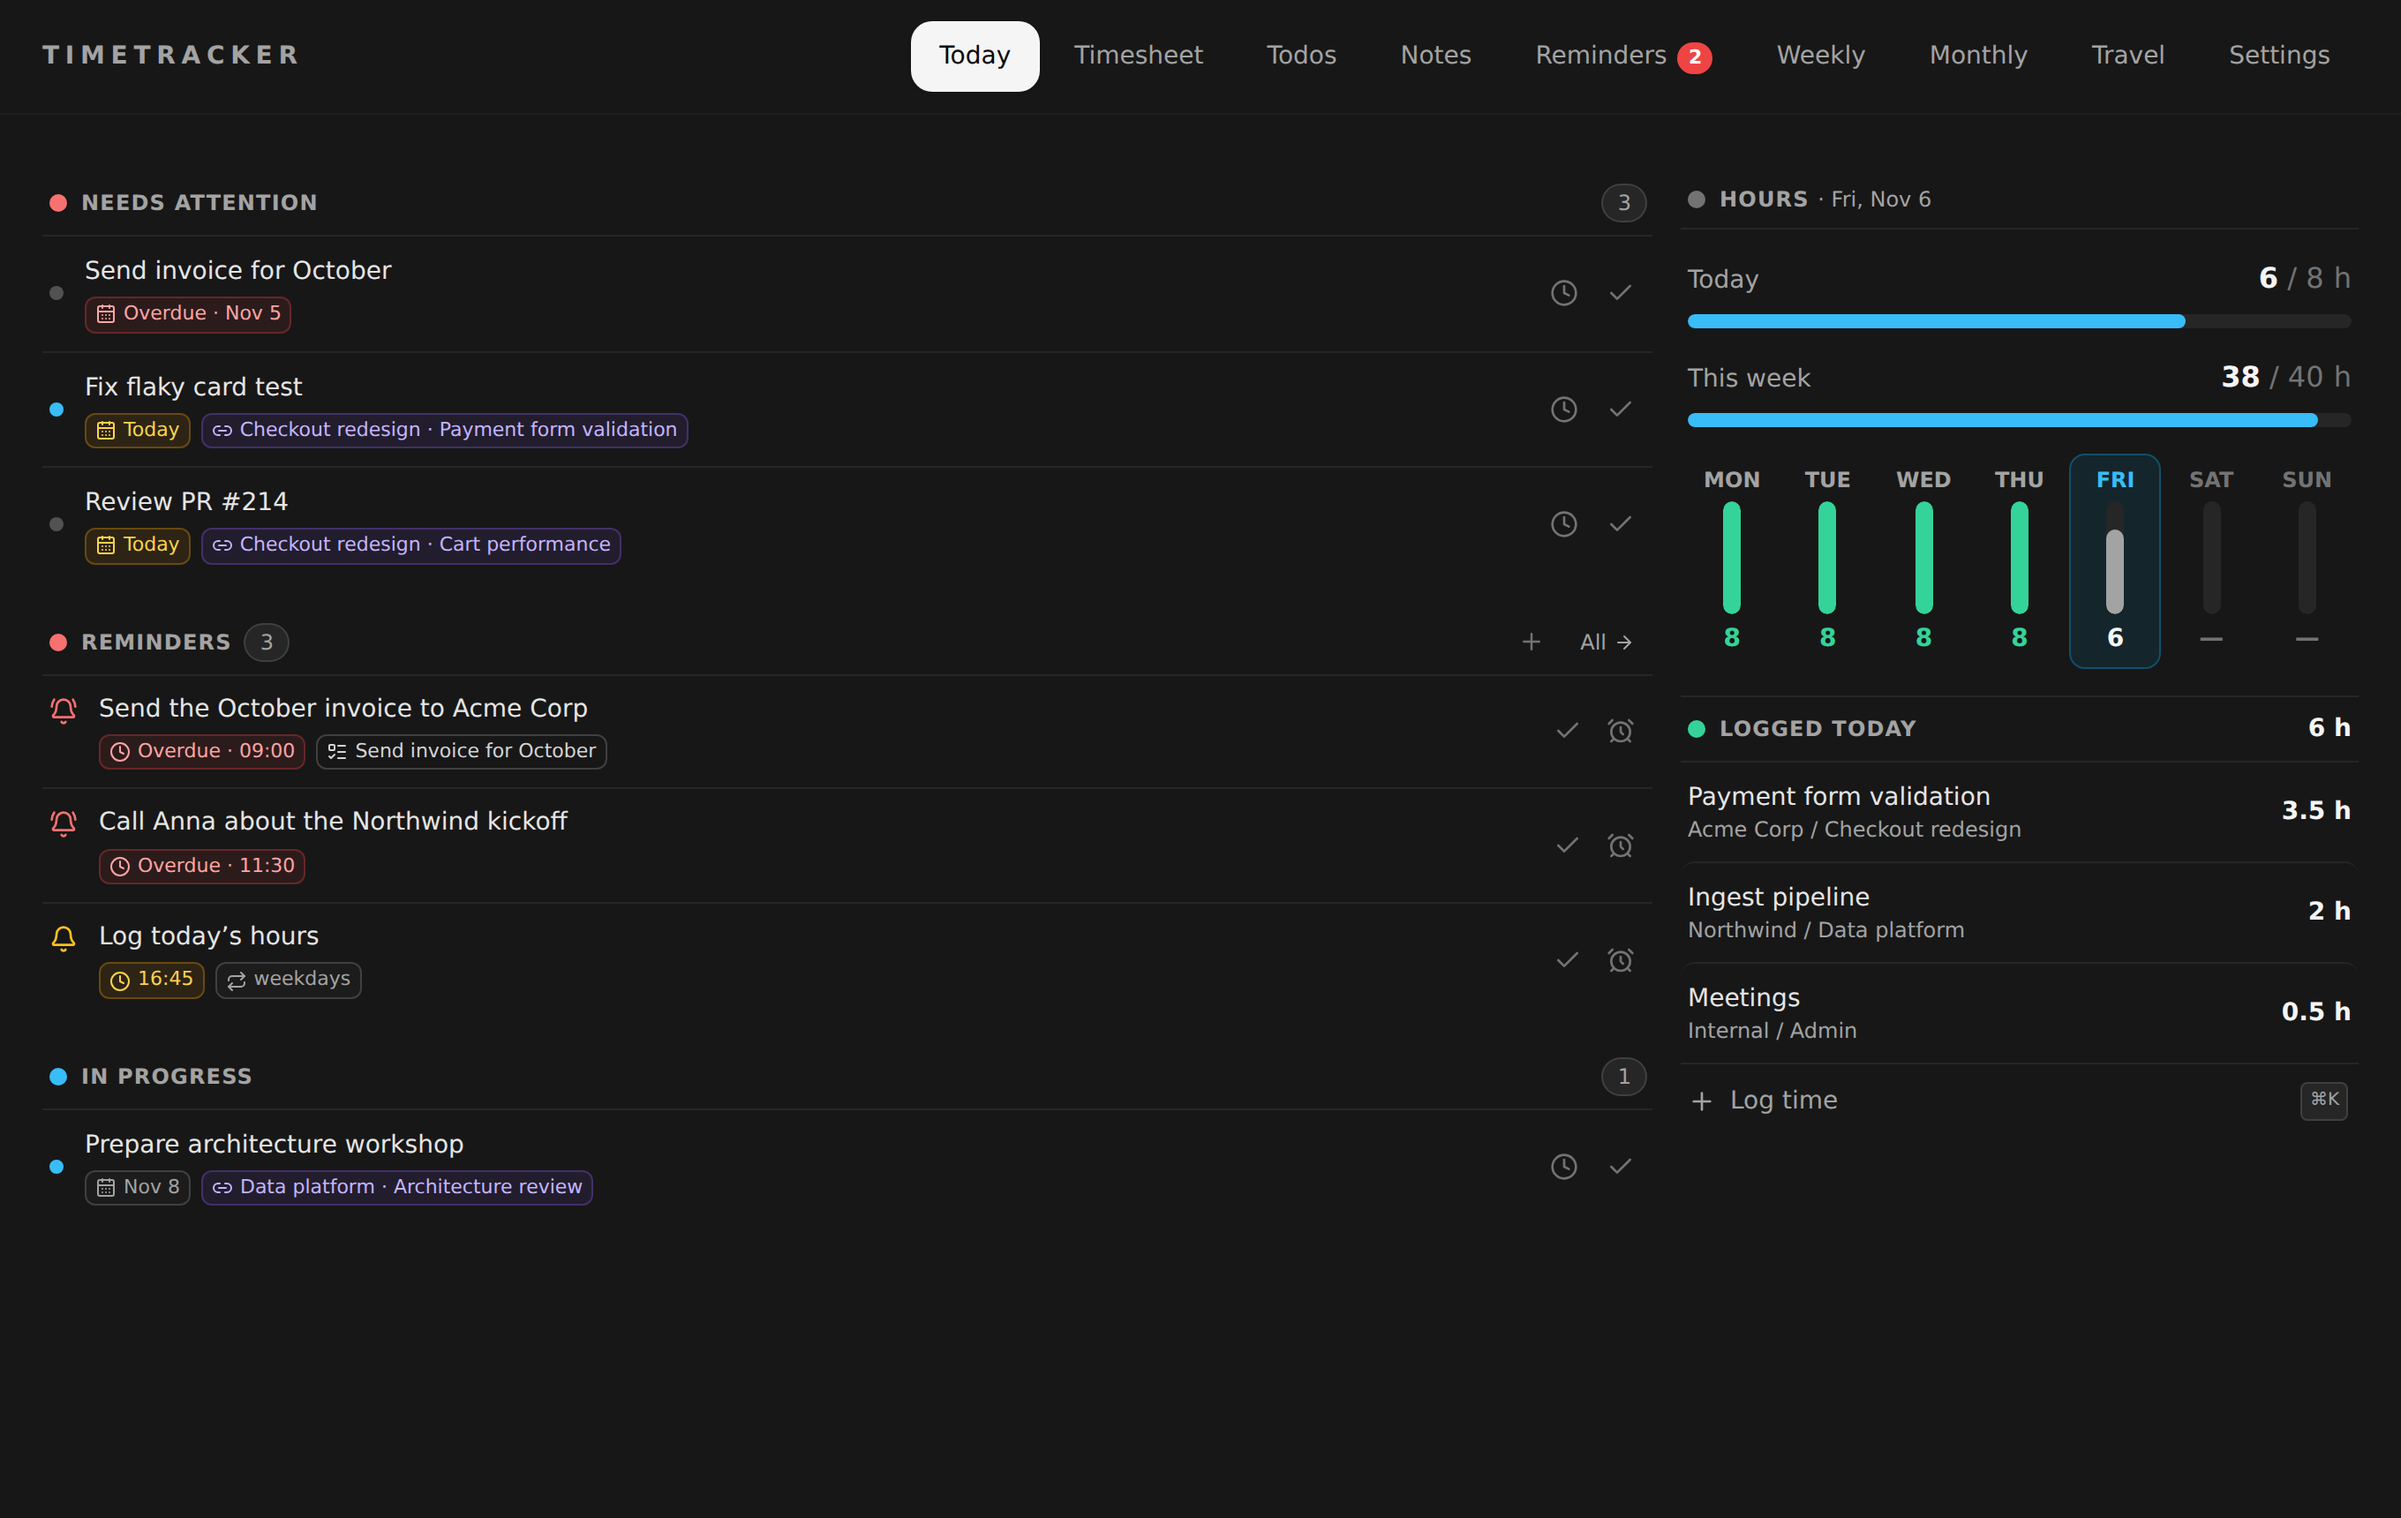
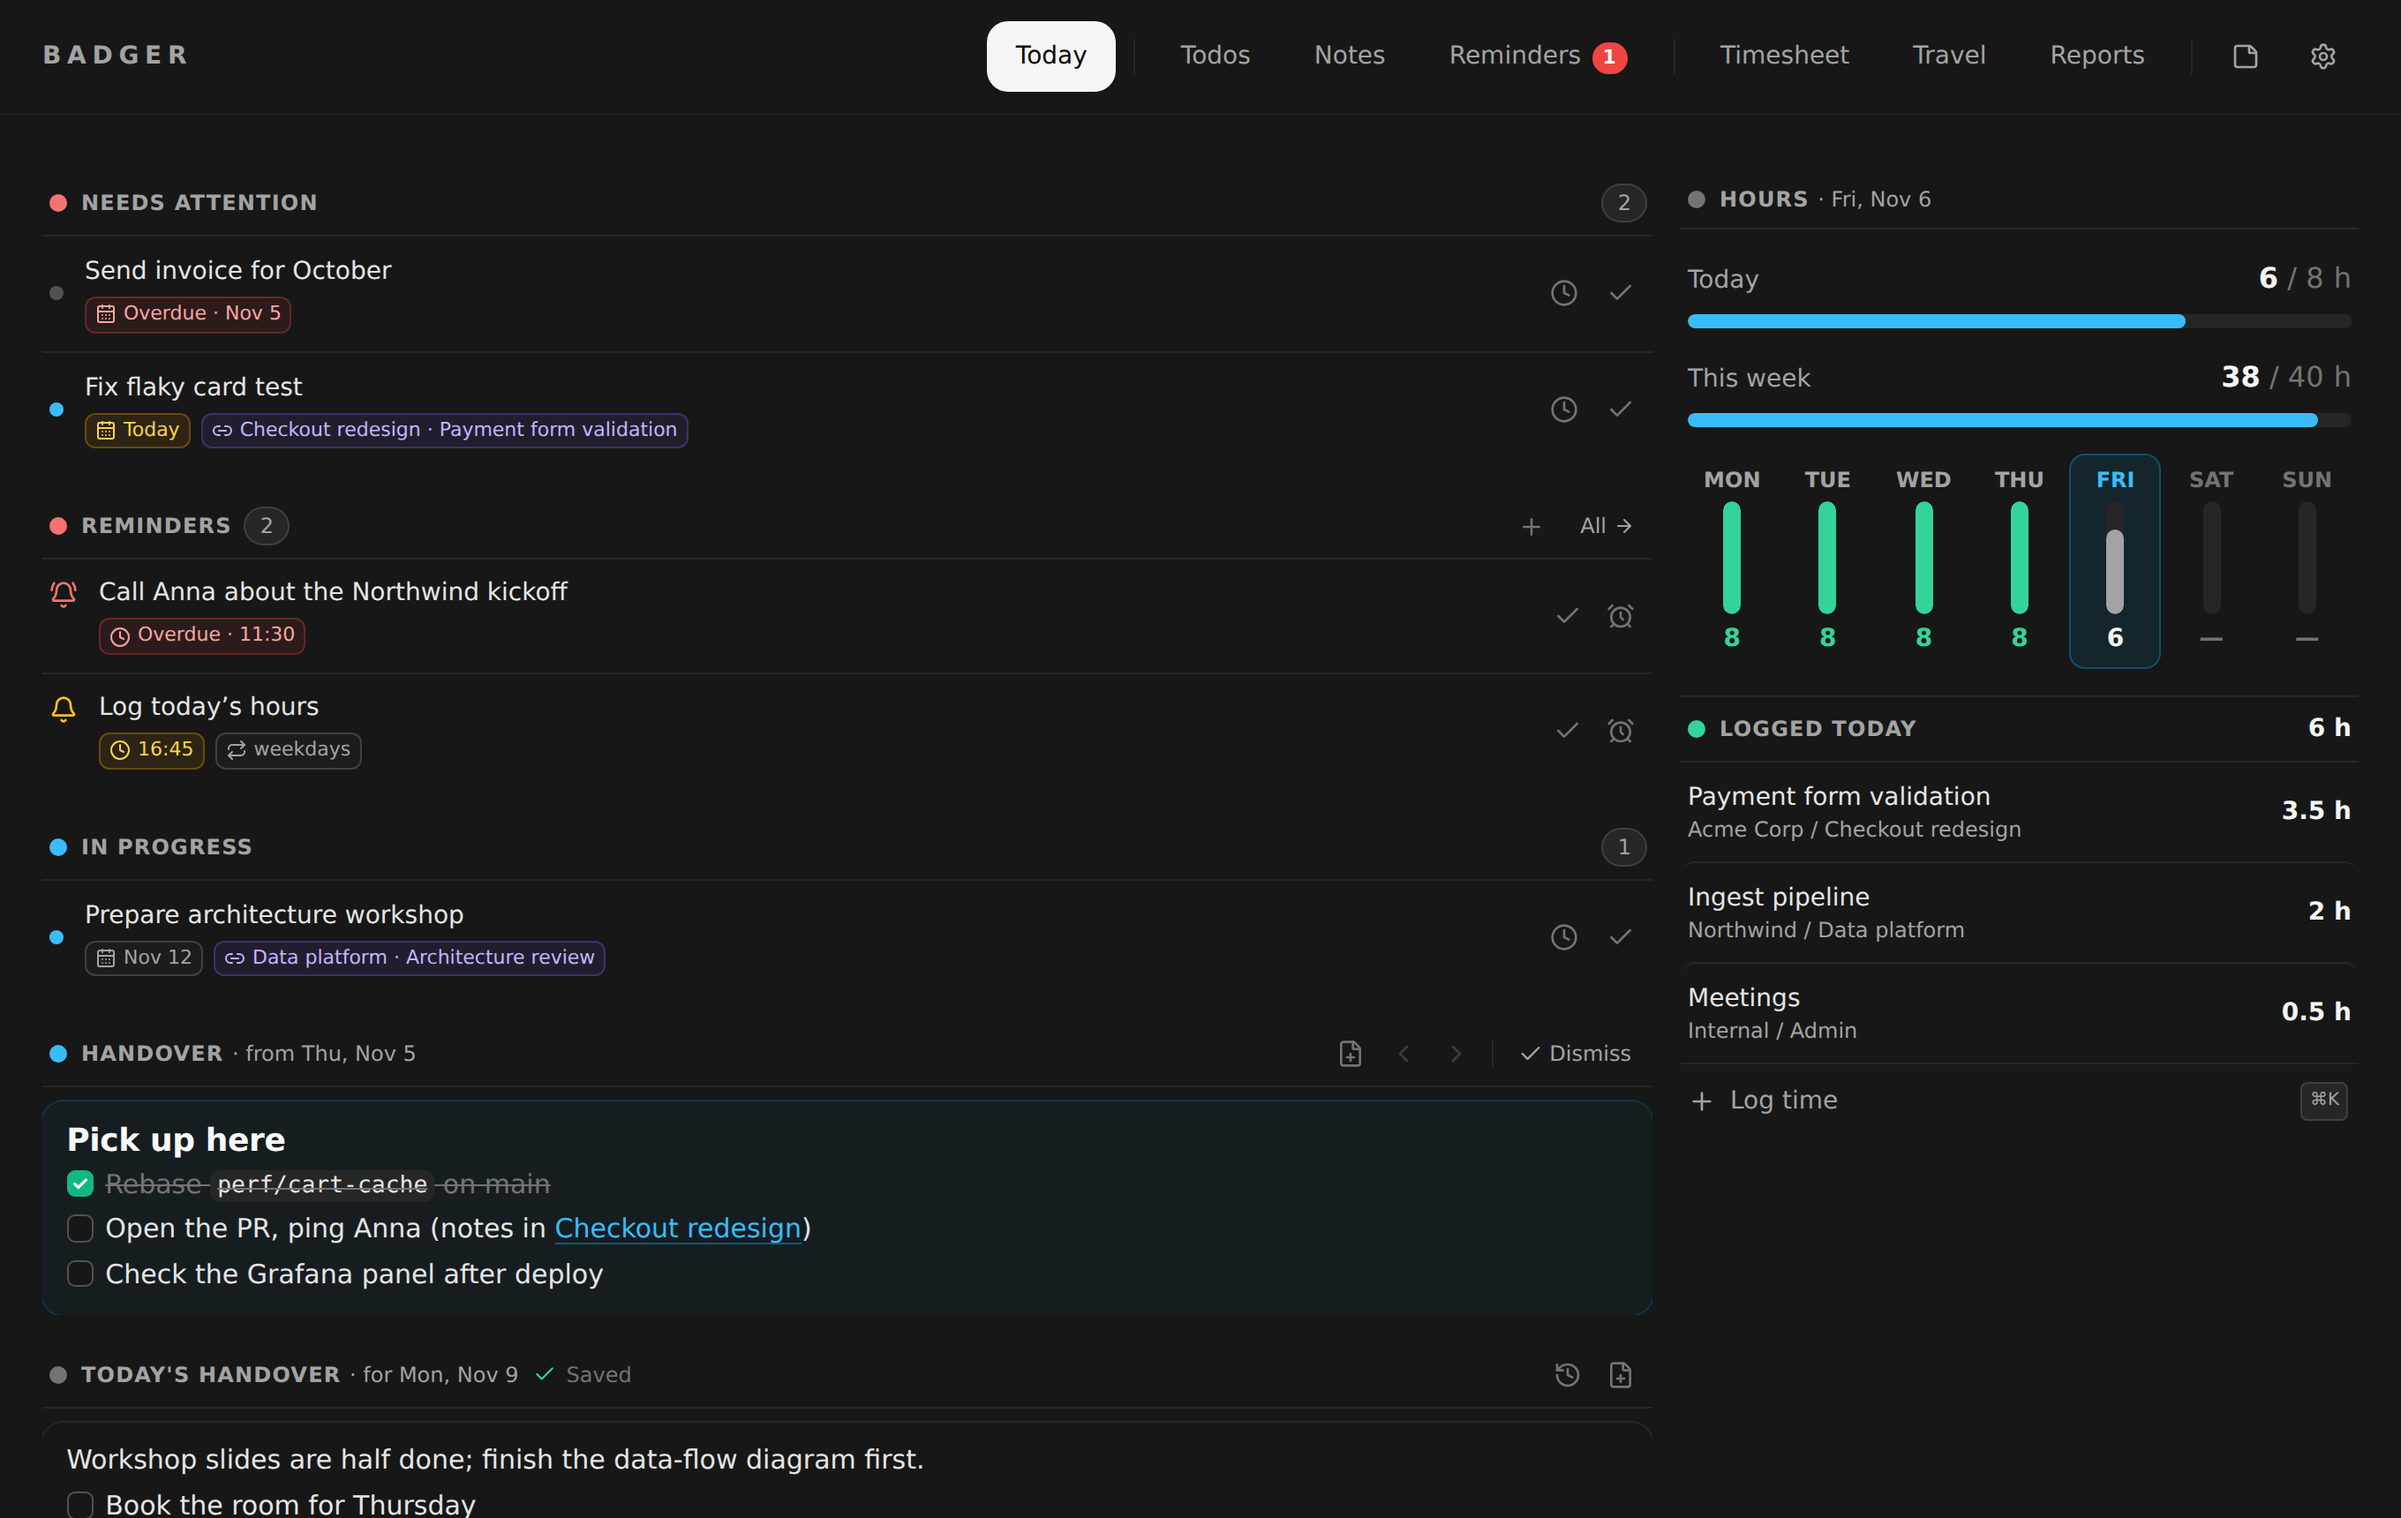
docs: refresh Today screenshots and handover README text
Claude-Session: https://claude.ai/code/session_01VnyJdthiVFLdKVRhZdGKnZ

diff --git a/README.md b/README.md
@@ -20,7 +20,7 @@ No account, no cloud, no subscription, no telemetry. Everything lives in one SQL
 
 ### Today — start the day here
 
-Overdue and due-today todos, today's reminders, what's in progress, hours logged today, and a Mon–Sun strip showing progress against your daily target. Complete a todo or log time on it in one click. A handover card carries yesterday's end-of-day note forward: write a short markdown note to your future self at the end of the day (⌘K *Write handover*), and it shows up on Today the next working day, at the bottom of the main column above the editor (Monday after a weekend), where you can tick its tasks, dismiss it, or page back through older ones.
+Overdue and due-today todos, today's reminders, what's in progress, hours logged today, and a Mon–Sun strip showing progress against your daily target. Complete a todo or log time on it in one click. At the bottom, write a handover: a short markdown note to your future self at the end of the day (⌘K *Write handover*). It shows up above the editor on your next working day (Monday after a weekend), where you can tick its tasks, dismiss it, or page back through older ones.
 
 | Light | Dark |
 | --- | --- |
